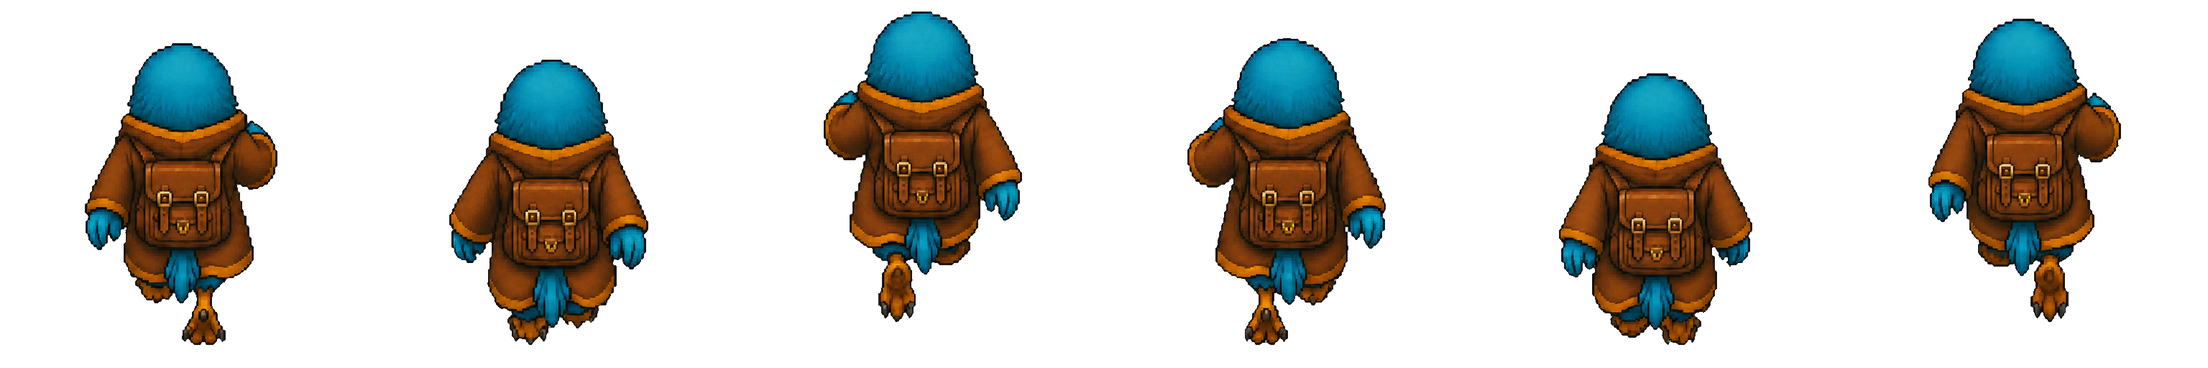
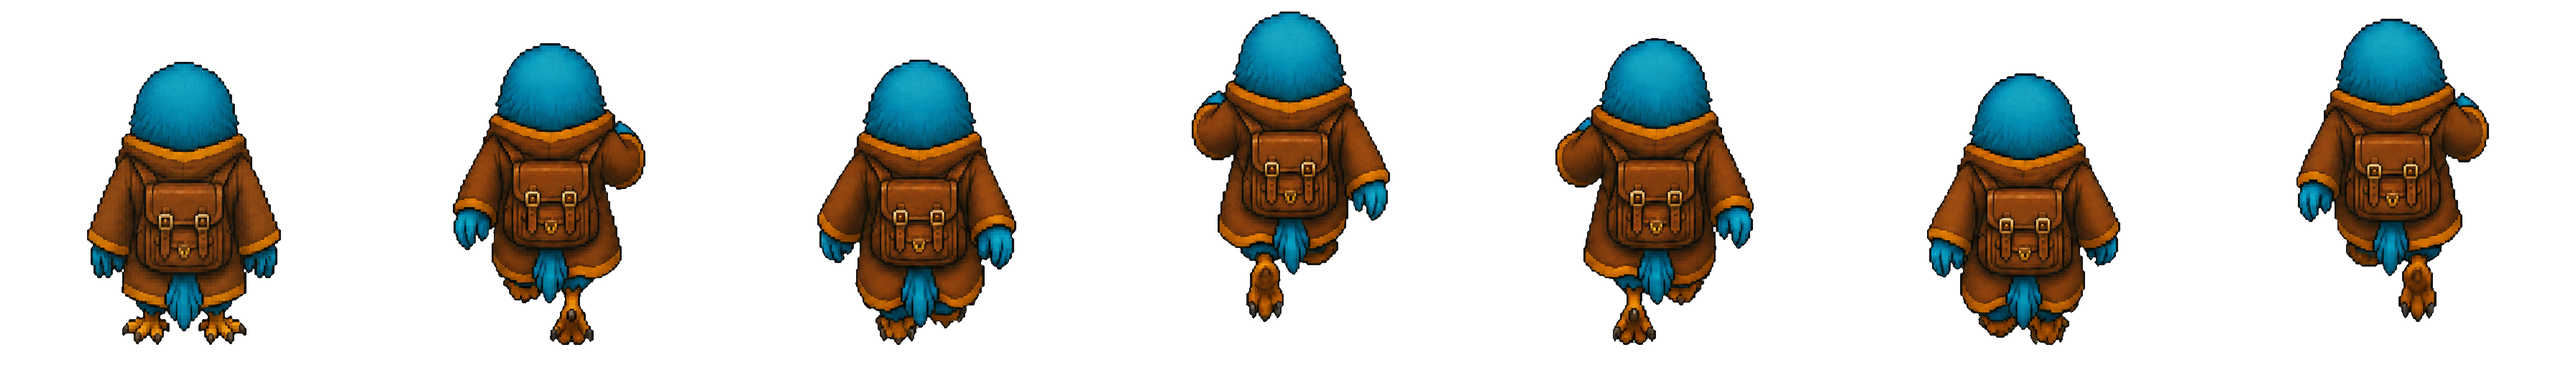
Include idle first in motion strips and running contact sheets

diff --git a/apps/games/caatuu-game/character-workshop/review.js b/apps/games/caatuu-game/character-workshop/review.js
@@ -55,7 +55,7 @@ function stripFrameIds(direction, action) {
   const source = defaults.find((entry) => entry.id === direction).source;
   const walk = [1, 2, 3, 4].map((phase) => `${source}-walk-0${phase}`);
   const run = [1, 2, 3, 4, 5, 6].map((phase) => `${source}-run-0${phase}`);
-  return action === "all" ? [`${source}-idle`, ...walk, ...run] : action === "walk" ? walk : run;
+  return [`${source}-idle`, ...(action === "all" ? [...walk, ...run] : action === "walk" ? walk : run)];
 }
 
 function stripUrl(strip, direction, action) {
@@ -74,13 +74,13 @@ function stripUrl(strip, direction, action) {
 function renderRowDownloads() {
   const entries = downloadsReady ? manifest.exports?.direction_strips : [];
   const action = cycleAction();
-  const count = cycleLength();
+  const count = cycleLength() + 1;
   for (const link of document.querySelectorAll(".row-download")) {
     const direction = link.dataset.direction;
     const matching = Array.isArray(entries) ? entries.filter((strip) => strip?.direction === direction && strip.action === action) : [];
     const url = matching.length === 1 ? stripUrl(matching[0], direction, action) : null;
     link.setAttribute("aria-label", `${url ? "Download" : "Unavailable:"} ${names[direction]} ${action} strip, ${count} frames`);
-    link.title = `${names[direction]} · ${count} ${action === "run" ? "running" : "walking"} frames · transparent PNG`;
+    link.title = `${names[direction]} · standing + ${count - 1} ${action === "run" ? "running" : "walking"} frames · transparent PNG`;
     if (url) {
       link.href = url;
       link.download = `caatuu-macaw-${direction.toLowerCase()}-${action}-strip.png`;
@@ -189,8 +189,8 @@ function buildSheet() {
   const running = state.action === "run";
   sheet.classList.toggle("run-sheet", running);
   $("contact-heading").textContent = running ? "Latest running frames" : "Latest walking frames";
-  $("contact-caption").textContent = running ? "Five authored directions · six poses per run cycle" : "Standing + contact / passing / opposite contact / passing";
-  const headings = running ? ["Direction", ...runPhaseNames.map((name,i) => `${String(i+1).padStart(2,"0")} · ${name}`)] : ["Direction", "Standing", "01 · Contact", "02 · Passing", "03 · Contact", "04 · Passing"];
+  $("contact-caption").textContent = running ? "Standing + six poses per run cycle" : "Standing + contact / passing / opposite contact / passing";
+  const headings = running ? ["Direction", "Standing", ...runPhaseNames.map((name,i) => `${String(i+1).padStart(2,"0")} · ${name}`)] : ["Direction", "Standing", "01 · Contact", "02 · Passing", "03 · Contact", "04 · Passing"];
   for (const heading of headings) sheet.append(text("div", heading, "sheet-heading"));
   for (const direction of authored) {
     const label = text("div", "", "row-label");
@@ -198,8 +198,8 @@ function buildSheet() {
     download.dataset.direction = direction;
     label.append(text("span", `${direction}\n${names[direction]}`), download);
     sheet.append(label);
-    for (let phase = running ? 1 : 0; phase <= (running ? 6 : 4); phase += 1) {
-      const selection = frameFor(direction, running ? "run" : phase ? "walk" : "idle", phase);
+    for (let phase = 0; phase <= (running ? 6 : 4); phase += 1) {
+      const selection = frameFor(direction, phase ? running ? "run" : "walk" : "idle", phase);
       const url = sourceUrl(selection.frame);
       const cell = document.createElement(url ? "a" : "div");
       cell.className = `sheet-cell${url ? "" : " missing"}`;
@@ -211,7 +211,7 @@ function buildSheet() {
         cell.setAttribute("aria-label", `Open latest sheet frame ${selection.id}`);
         const holder = text("div", "", "sheet-image");
         const image = new Image();
-        image.alt = `${names[direction]} ${running ? `run ${phase}` : phase ? `walk ${phase}` : "standing"}`;
+        image.alt = `${names[direction]} ${phase ? running ? `run ${phase}` : `walk ${phase}` : "standing"}`;
         image.src = url;
         image.addEventListener("error", () => { image.hidden = true; holder.append(text("span", "Load failed")); cell.classList.add("failed"); });
         holder.append(image);

diff --git a/apps/games/caatuu-game/character-workshop/review.css b/apps/games/caatuu-game/character-workshop/review.css
@@ -54,7 +54,7 @@ footer { display: flex; justify-content: space-between; gap: 15px; color: #708c7
 @media (max-width: 1000px) { .direction-cards { grid-template-columns: repeat(4, 1fr); }.card-stage { height: 160px; } }
 @media (max-width: 720px) { .page { padding: 24px 15px; }.page-header { align-items: flex-start; flex-direction: column; gap: 17px; }.notice { margin-top: 20px; }.audit-bar { gap: 9px; }.audit-bar div { padding-left: 10px; }.audit-bar strong { font-size: .93rem; }.audit-bar span { font-size: .67rem; }.review-layout { grid-template-columns: 1fr; }.stage { min-height: 370px; }.stage img { max-height: 370px; }.stage.size-large img { width: min(100%, 370px); }.inspector { border-left: 0; border-top: 1px solid var(--line); display: grid; grid-template-columns: 1fr 1fr; gap: 0 18px; }.inspector > fieldset:first-child { grid-row: span 3; }.inspector .small-copy { grid-column: 1 / -1; }.section-heading { display: block; }.section-heading p { margin-top: 7px; }.panel-title { padding: 16px; }.panel-title h2 { font-size: 1rem; }.panel-title > span { font-size: .72rem; }.transport { padding: 12px; flex-wrap: wrap; }#phase-label { width: 110px; font-size: .7rem; }.scrubber-label { display: none; }.card-stage { height: 110px; }.card-label { flex-direction: column; align-items: flex-start; padding: 7px; }.direction-cards { gap: 7px; }.frame-info { padding: 13px; }.frame-info span { display: block; margin-top: 9px; }footer { flex-direction: column; gap: 7px; } }
 @media (prefers-reduced-motion: reduce) { html { scroll-behavior: auto; } }
-.run-sheet { min-width: 850px; grid-template-columns: 86px repeat(6, minmax(110px, 1fr)); }
+.run-sheet { min-width: 990px; grid-template-columns: 86px repeat(7, minmax(110px, 1fr)); }
 #direction-help { margin-top: 10px; }
 .lab-nav { display: flex; justify-content: space-between; gap: 20px; margin-bottom: 28px; padding-bottom: 18px; border-bottom: 1px solid var(--line); font-size: .78rem; }
 .lab-nav > a { letter-spacing: .12em; }

diff --git a/apps/games/caatuu-game/tooling/normalize-motion.py b/apps/games/caatuu-game/tooling/normalize-motion.py
@@ -163,8 +163,10 @@ def normalize(source, output, target_area, source_revision, source_archive):
 
     strips = []
     for direction in manifest["directions"]:
-        for action, count in (("walk", 4), ("run", 6), ("all", 11)):
+        for action, count in (("walk", 5), ("run", 7), ("all", 11)):
             sequence = ordered_frames(frames, direction["source"], action)
+            if action != "all":
+                sequence = ordered_frames(frames, direction["source"], "idle") + sequence
             if len(sequence) != count:
                 raise ValueError("Incomplete strip sequence.")
             strip = Image.new("RGBA", (CELL * count, CELL))

diff --git a/apps/games/caatuu-game/docs/CHARACTER_ANIMATION_WORKFLOW.md b/apps/games/caatuu-game/docs/CHARACTER_ANIMATION_WORKFLOW.md
@@ -321,8 +321,11 @@ records the container command, source revision and archive. Current source/resul
 hashes and factors are in the [scale audit](../character-workshop/mass-normalization.json).
 
 Motion provides a **Download** button in each contact-sheet direction label.
-The button follows the current action: four walking frames or six running
-frames, with no separate download section or selector. The package retains all
+Every download begins with the idle frame, followed by the current action:
+four walking poses (five cells total) or six running poses (seven cells total),
+with no separate download section or selector. Both contact sheets show the
+idle reference in their first image column. Animation playback keeps its
+four/six-pose cycle. The package retains all
 eight directions and the complete eleven-frame sequence (idle, walk, run) in
 its manifest. Each strip is a transparent horizontal PNG with 512 × 512 cells
 and no labels. Mirrored directions have the mirror baked into each cell. Verify

diff --git a/apps/games/caatuu-game/character-workshop/README.md b/apps/games/caatuu-game/character-workshop/README.md
@@ -93,8 +93,11 @@ retain the original 32-pixel clearance at y=448. Every silhouette stays inside
 the canvas. The audit records each original hash, registration, factor and result.
 
 In Motion, each contact-sheet direction label has a **Download** button. It
-follows the current action: Walk (4 frames, 2048 × 512) or Run (6 frames,
-3072 × 512). Standing shows the walking sheet and its walking downloads.
+always starts with standing, then follows the current action: Walk (idle + 4
+poses, 2560 × 512) or Run (idle + 6 poses, 3584 × 512). Both contact sheets show
+Standing in their first image column. Standing mode shows the walking sheet
+and its walking downloads. Idle is a reference cell; playback still loops only
+the four walking or six running poses.
 The separate download section and selector have been removed.
 
 The curated asset package still contains all 24 strips, including the mirrored
